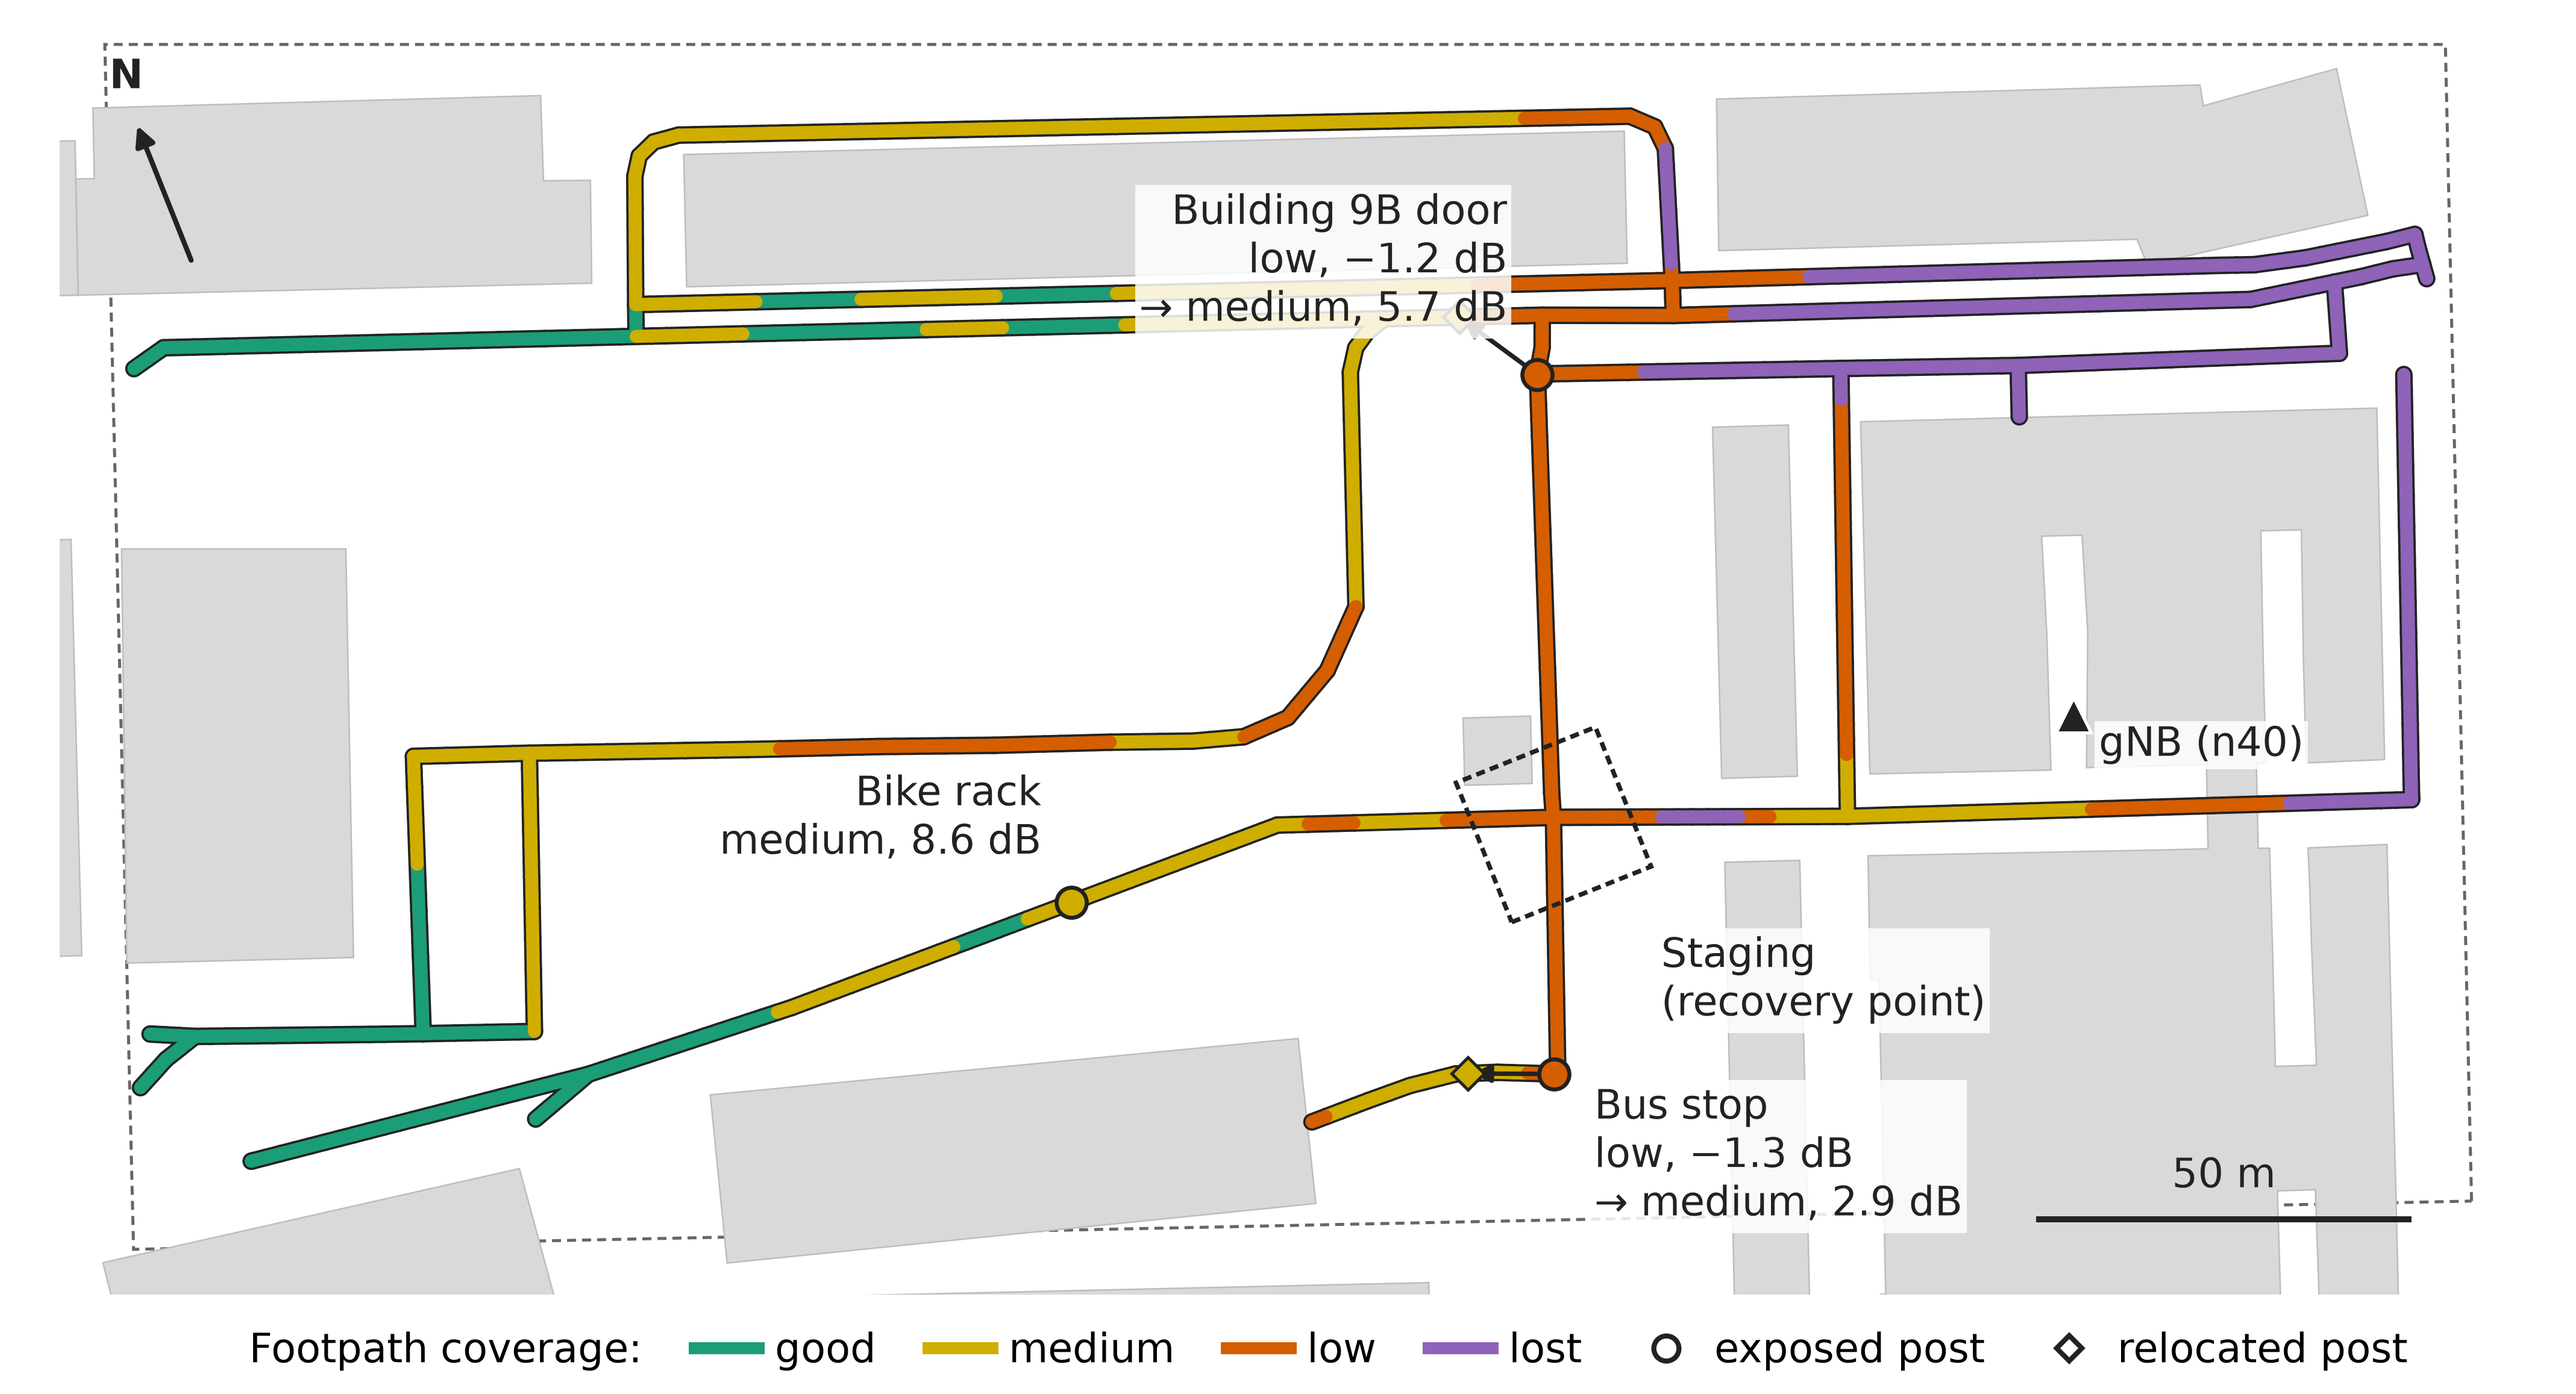
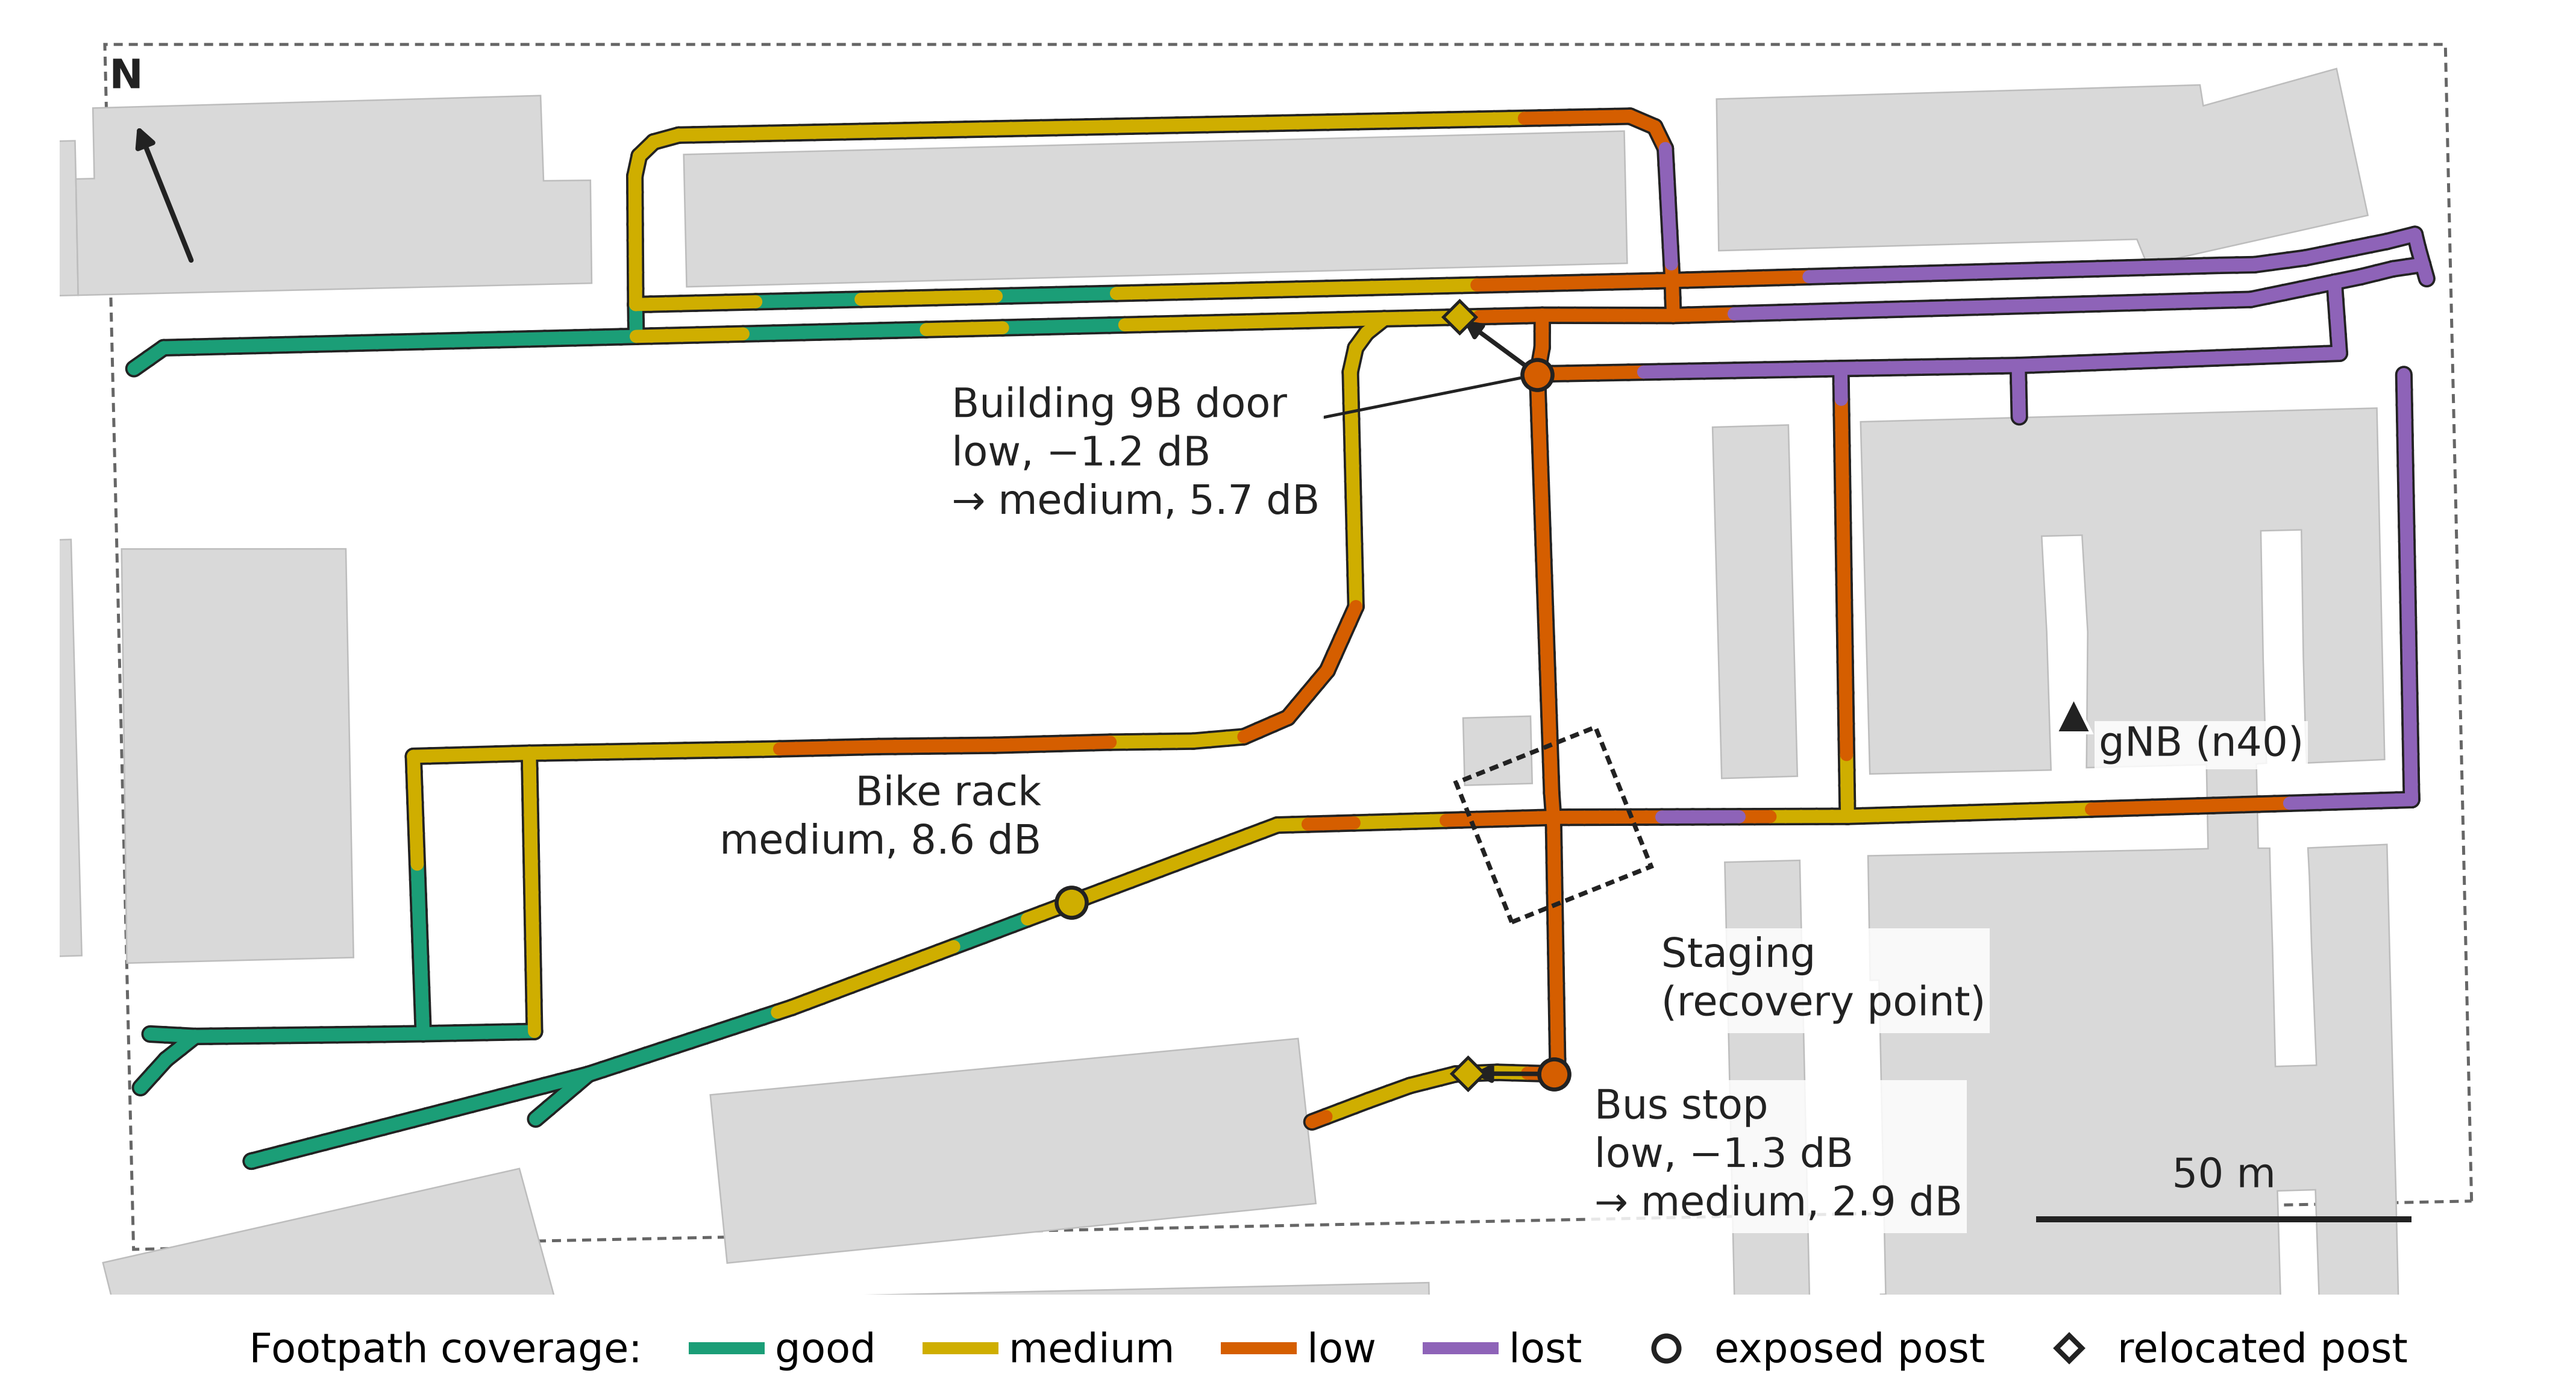
Campus map, panoramic version: Building 9B door label placed clear of footpaths, markers and arrows (searched), with a leader line; label boxes drawn below markers and arrows

Changed region(s): [[0.4356, 0.1245, 0.5911, 0.2489], [0.3733, 0.28, 0.5289, 0.3734]]

diff --git a/paper/plot_campus_map.py b/paper/plot_campus_map.py
@@ -91,6 +91,105 @@ def viewpoints(runs: Path, out_csv: Path) -> list[dict]:
     return seed0
 
 
+def _seg_dist(a, b, c, d) -> float:
+    """Distance between segments ab and cd (0 when they cross)."""
+
+    def cross(o, p, q):
+        return (p[0] - o[0]) * (q[1] - o[1]) - (p[1] - o[1]) * (q[0] - o[0])
+
+    d1, d2, d3, d4 = cross(c, d, a), cross(c, d, b), cross(a, b, c), cross(a, b, d)
+    if d1 * d2 < 0 and d3 * d4 < 0:
+        return 0.0
+
+    def pt(p, u, v):
+        ux, uy = v[0] - u[0], v[1] - u[1]
+        n = ux * ux + uy * uy
+        t = 0.0 if n == 0 else max(0.0, min(1.0, ((p[0] - u[0]) * ux + (p[1] - u[1]) * uy) / n))
+        return math.hypot(p[0] - u[0] - t * ux, p[1] - u[1] - t * uy)
+
+    return min(pt(a, c, d), pt(b, c, d), pt(c, a, b), pt(d, a, b))
+
+
+def _rect_seg_dist(r, a, b) -> float:
+    """Distance between rectangle r = (x0, y0, x1, y1) and segment ab."""
+    x0, y0, x1, y1 = r
+    if x0 <= a[0] <= x1 and y0 <= a[1] <= y1:
+        return 0.0
+    sides = [((x0, y0), (x1, y0)), ((x1, y0), (x1, y1)), ((x1, y1), (x0, y1)), ((x0, y1), (x0, y0))]
+    return min(_seg_dist(a, b, c, d) for c, d in sides)
+
+
+def place_clear(fig, ax, ann, labels, segs, seg_lw, arrows, points, lines) -> None:
+    """Move ``ann`` to the nearest offset where its box touches no footpath (with its
+    casing), arrow, marker, other label or line, and join it to its post with a short
+    leader line that crosses no footpath away from the post. Display units (pixels)."""
+    fig.canvas.draw()
+    rend = fig.canvas.get_renderer()
+    px_pt = fig.dpi / 72.0
+    to = ax.transData.transform
+    anchor = to(ann.xy)
+    pad = 2.0 * px_pt
+    obst = [(to(a), to(b), seg_lw / 2 * px_pt + pad) for a, b in segs]
+    n_paths = len(obst)
+    obst += [(to(a), to(b), 2.5 * px_pt) for a, b in arrows]
+    obst += [(to(a), to(b), 1.5 * px_pt) for a, b in lines]
+    dots = [(to((x, y)), r * px_pt + pad) for x, y, r in points]
+    others = []
+    for lb in labels:
+        if lb is not ann:
+            e = lb.get_bbox_patch().get_window_extent(rend)
+            others.append((e.x0 - pad, e.y0 - pad, e.x1 + pad, e.y1 + pad))
+    frame = ax.get_window_extent(rend)
+    ann.set_ha("center")
+    ann.set_va("center")
+    ann.set_multialignment("left")
+    best = None
+    for dx in range(-240, 241, 4):
+        for dy in range(-140, 141, 4):
+            ann.xyann = (dx, dy)
+            ann.update_bbox_position_size(rend)
+            e = ann.get_bbox_patch().get_window_extent(rend)
+            r = (e.x0, e.y0, e.x1, e.y1)
+            if r[0] < frame.x0 + pad or r[2] > frame.x1 - pad:
+                continue
+            if r[1] < frame.y0 + pad or r[3] > frame.y1 - pad:
+                continue
+            if any(not (r[2] < o[0] or r[0] > o[2] or r[3] < o[1] or r[1] > o[3]) for o in others):
+                continue
+            if any(_rect_seg_dist(r, a, b) < w for a, b, w in obst):
+                continue
+            if any(_rect_seg_dist(r, c, c) < w for c, w in dots):
+                continue
+            # leader: drawn towards the box centre and clipped at the box (where nothing
+            # else lies), so the segment post -> centre must be clear outside the post
+            qx, qy = (r[0] + r[2]) / 2, (r[1] + r[3]) / 2
+            length = math.hypot(qx - anchor[0], qy - anchor[1])
+            start = 6 * px_pt  # the post marker and its own footpath
+            crossings = 0
+            if length > start:
+                u = ((qx - anchor[0]) / length, (qy - anchor[1]) / length)
+                a = (anchor[0] + u[0] * start, anchor[1] + u[1] * start)
+                if any(_seg_dist(a, (qx, qy), c, c) < w for c, w in dots):
+                    continue  # never through a marker
+                if any(_seg_dist(a, (qx, qy), p, q) < 1.0 for p, q, _ in obst[n_paths:]):
+                    continue  # nor through an arrow or line
+                crossings = sum(_seg_dist(a, (qx, qy), p, q) < 1.0 for p, q, _ in obst[:n_paths])
+            # a short leader, crossing as few footpaths as possible
+            score = length + 40 * px_pt * crossings
+            if best is None or score < best[0]:
+                best = (score, dx, dy, length, crossings)
+    if best is None:
+        raise SystemExit("no clear place for the label")
+    ann.xyann = (best[1], best[2])
+    ann.arrowprops = {"arrowstyle": "-", "lw": 0.6, "color": INK, "shrinkA": 0, "shrinkB": 3.5}
+    ann._arrow_relpos = (0.5, 0.5)
+    ann.arrow_patch = FancyArrowPatch((0, 0), (1, 1), **ann.arrowprops)
+    print(
+        f"label placed at offset {best[1]}, {best[2]} pt; "
+        f"leader {best[3] / px_pt:.1f} pt (to the box centre), crossing {best[4]} footpath(s)"
+    )
+
+
 def main() -> None:
     ap = argparse.ArgumentParser()
     ap.add_argument("--runs", type=Path, default=Path("var/runs/n4_scarcity"))
@@ -173,30 +272,37 @@ def main() -> None:
             zorder=4,
         )
     )
-    ax.annotate(
-        "Staging\n(recovery point)",
-        (max(xs), min(ys)) if args.wide else (min(xs), (min(ys) + max(ys)) / 2),
-        xytext=(2, -2) if args.wide else (-3, 0),
-        textcoords="offset points",
-        ha="left" if args.wide else "right",
-        va="top" if args.wide else "center",
-        color=INK,
-        bbox=BOX,
+    labels = []  # every label (wide version: kept clear of markers, arrows and footpaths)
+    points = []  # (x, y, radius in points) of every marker
+    labels.append(
+        ax.annotate(
+            "Staging\n(recovery point)",
+            (max(xs), min(ys)) if args.wide else (min(xs), (min(ys) + max(ys)) / 2),
+            xytext=(2, -2) if args.wide else (-3, 0),
+            textcoords="offset points",
+            ha="left" if args.wide else "right",
+            va="top" if args.wide else "center",
+            color=INK,
+            bbox=BOX,
+        )
     )
 
     # gNB site
     site = campus.network_sites[0]
     sx, sy = T(site["x"], site["y"])
     ax.plot(sx, sy, marker="^", ms=7, mfc=INK, mec="white", mew=0.6, zorder=6)
-    ax.annotate(
-        "gNB (n40)",
-        (sx, sy),
-        xytext=(5, -2),
-        textcoords="offset points",
-        ha="left",
-        va="top",
-        color=INK,
-        bbox=BOX,
+    points.append((sx, sy, 4.0))
+    labels.append(
+        ax.annotate(
+            "gNB (n40)",
+            (sx, sy),
+            xytext=(5, -2),
+            textcoords="offset points",
+            ha="left",
+            va="top",
+            color=INK,
+            bbox=BOX,
+        )
     )
 
     # exposed posts with level and SINR at the post, and their relocation
@@ -211,18 +317,21 @@ def main() -> None:
         "poi_bike_rack": (-6, 7, "right"),
         "poi_bus_stop": (8, -2, "left"),
     }
+    arrows: list = []
+    door = None
     for p in campus.pois:
         if p.poi_id not in SHORT:
             continue
         s = cmap.nearest(p.pose.x, p.pose.y)
         x, y = T(p.pose.x, p.pose.y)
         ax.plot(x, y, marker="o", ms=6, mfc=LEVEL_COLOR[s["level"]], mec=INK, mew=0.8, zorder=7)
+        points.append((x, y, 3.5))
         dx, dy, ha = (wide_offsets if args.wide else offsets)[p.poi_id]
         vp = vps.get(p.poi_id)
         text = f"{SHORT[p.poi_id]}\n{s['level']}, {db(s['sinr'])}"
         if vp is not None:
             text += f"\n\u2192 {vp['level']}, {db(float(vp['sinr_db']))}"
-        ax.annotate(
+        ann = ax.annotate(
             text,
             (x, y),
             xytext=(dx, dy),
@@ -231,8 +340,12 @@ def main() -> None:
             va="bottom" if dy > 0 else "top",
             color=INK,
             bbox=BOX,
-            zorder=10,
+            # wide version: label boxes under markers and arrows
+            zorder=5 if args.wide else 10,
         )
+        labels.append(ann)
+        if p.poi_id == "poi_library_door":
+            door = ann
         if vp is not None:
             vx, vy = T(float(vp["x"]), float(vp["y"]))
             ax.add_patch(
@@ -248,6 +361,8 @@ def main() -> None:
                     shrinkB=1,
                 )
             )
+            arrows.append(((x, y), (vx, vy)))
+            points.append((vx, vy, 3.0))
             ax.plot(
                 vx,
                 vy,
@@ -281,6 +396,19 @@ def main() -> None:
     ax.text(
         nx + ux * lab, ny + uy * lab, "N", ha="center", va="bottom", color=INK, fontweight="bold"
     )
+
+    if args.wide and door is not None:
+        place_clear(
+            fig,
+            ax,
+            door,
+            labels,
+            allsegs,
+            lw + 0.9,
+            arrows,
+            points,
+            [((x0, y0), (x0 + 50, y0)), ((nx, ny), (nx + ux, ny + uy))],
+        )
 
     # legend: coverage levels, then the markers
     handles = [Line2D([], [], color=LEVEL_COLOR[lv], lw=2.4, label=lv) for lv in LEVELS]
